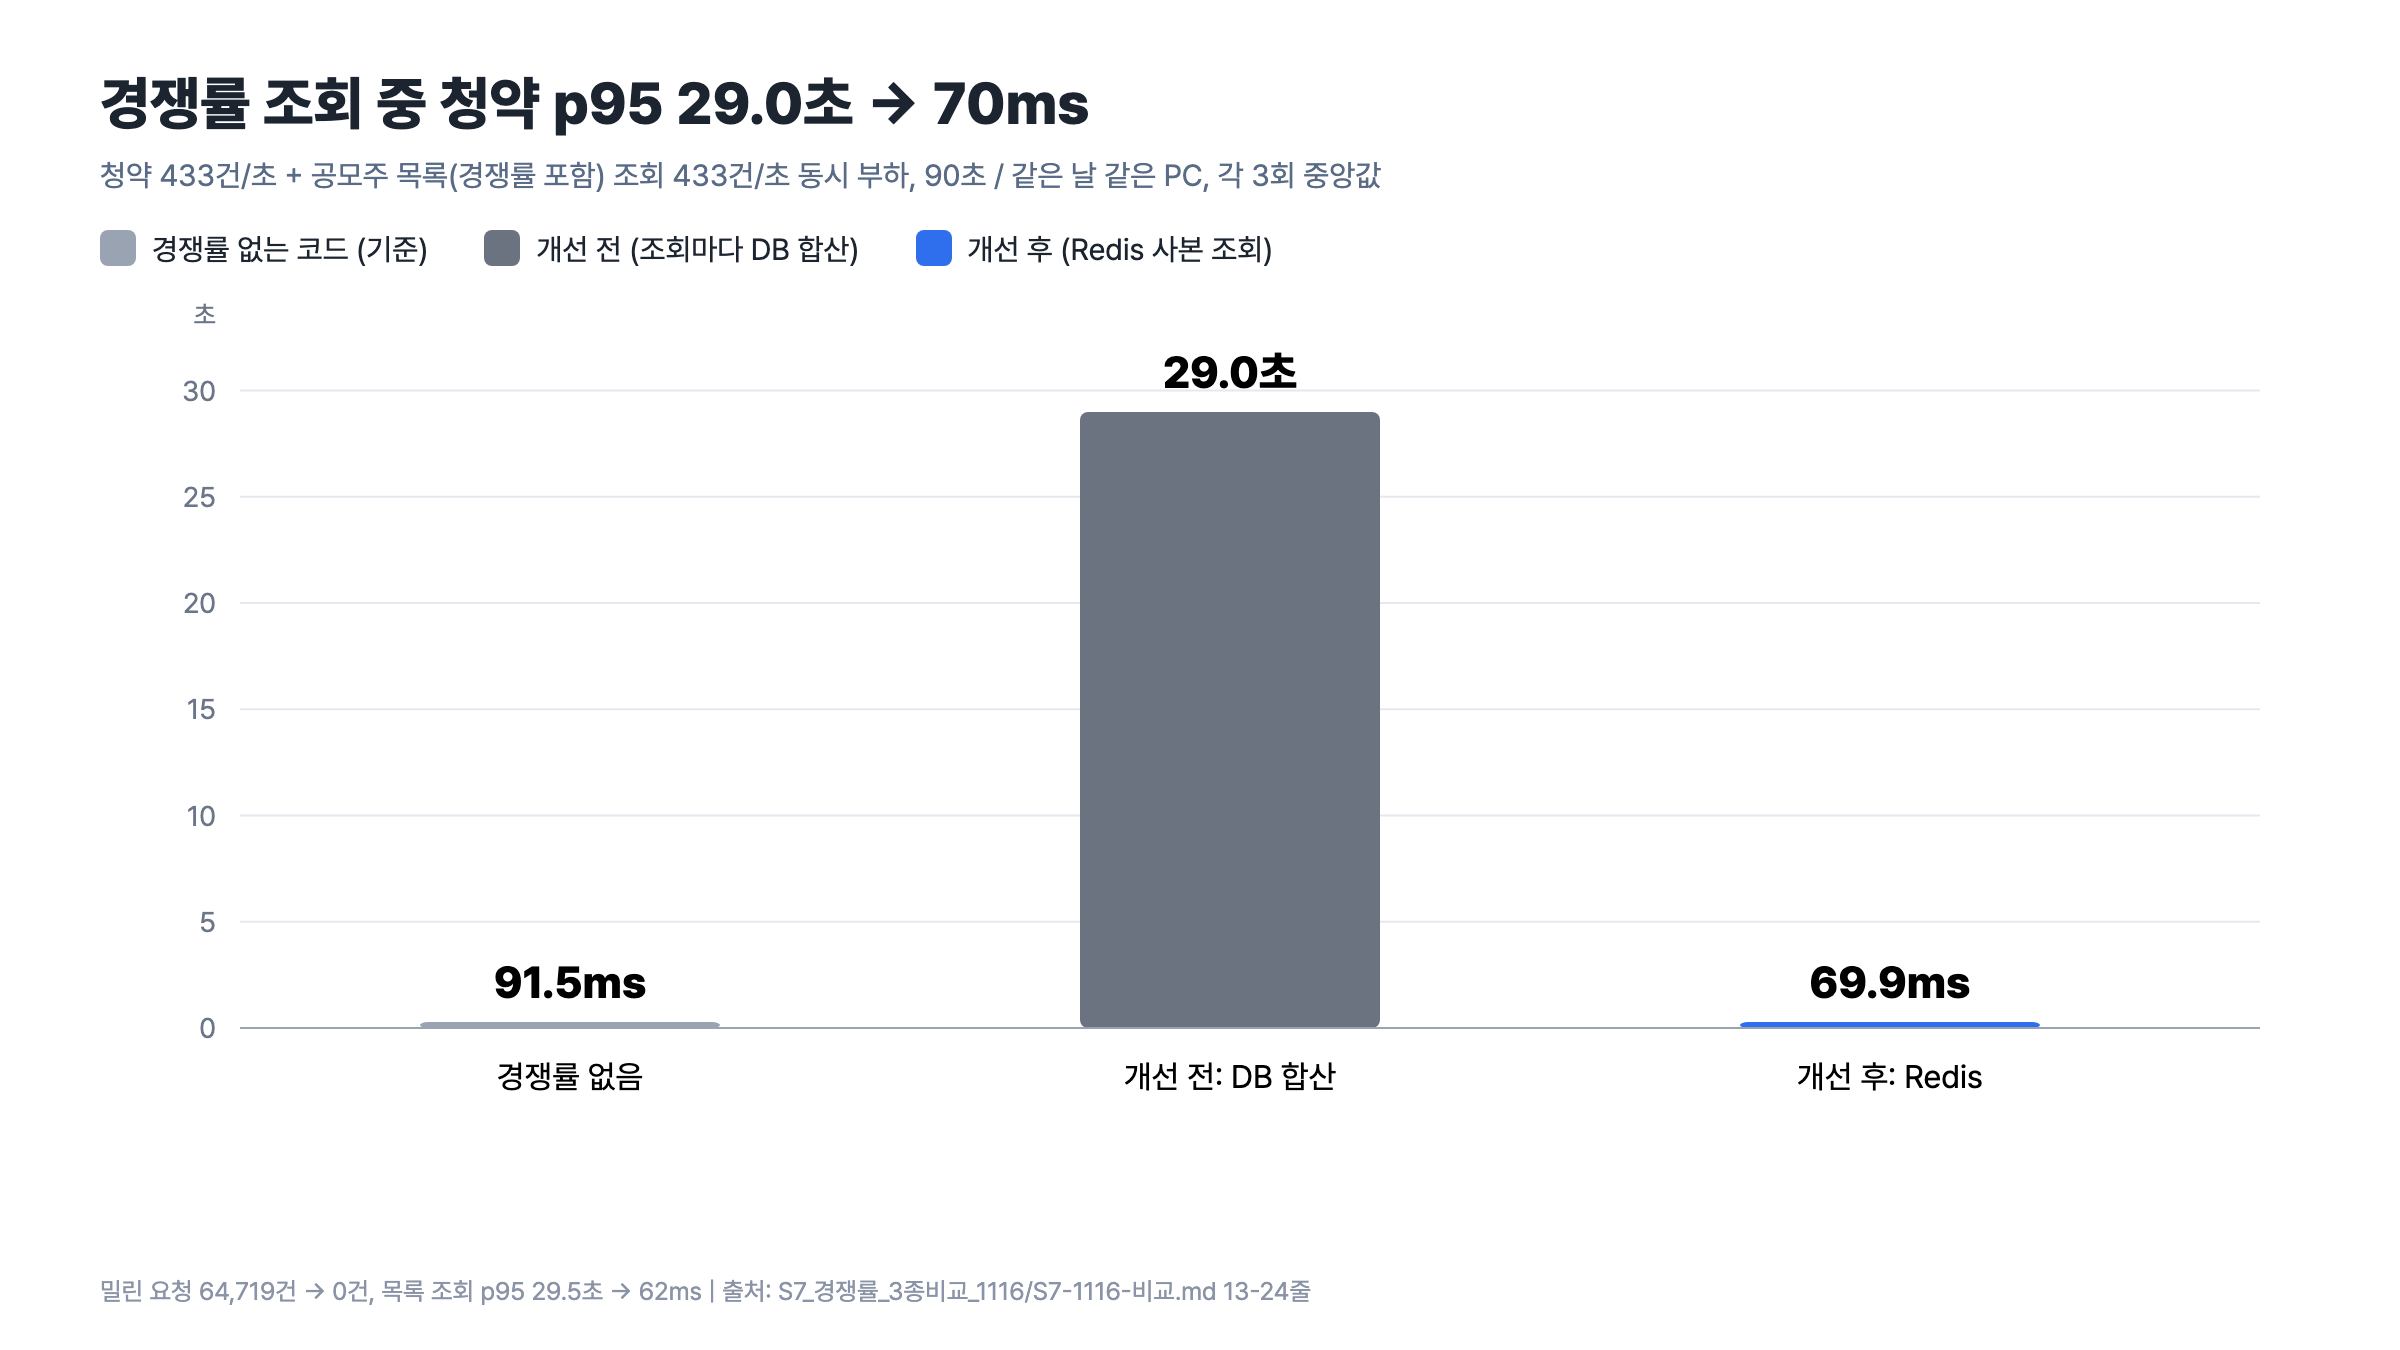
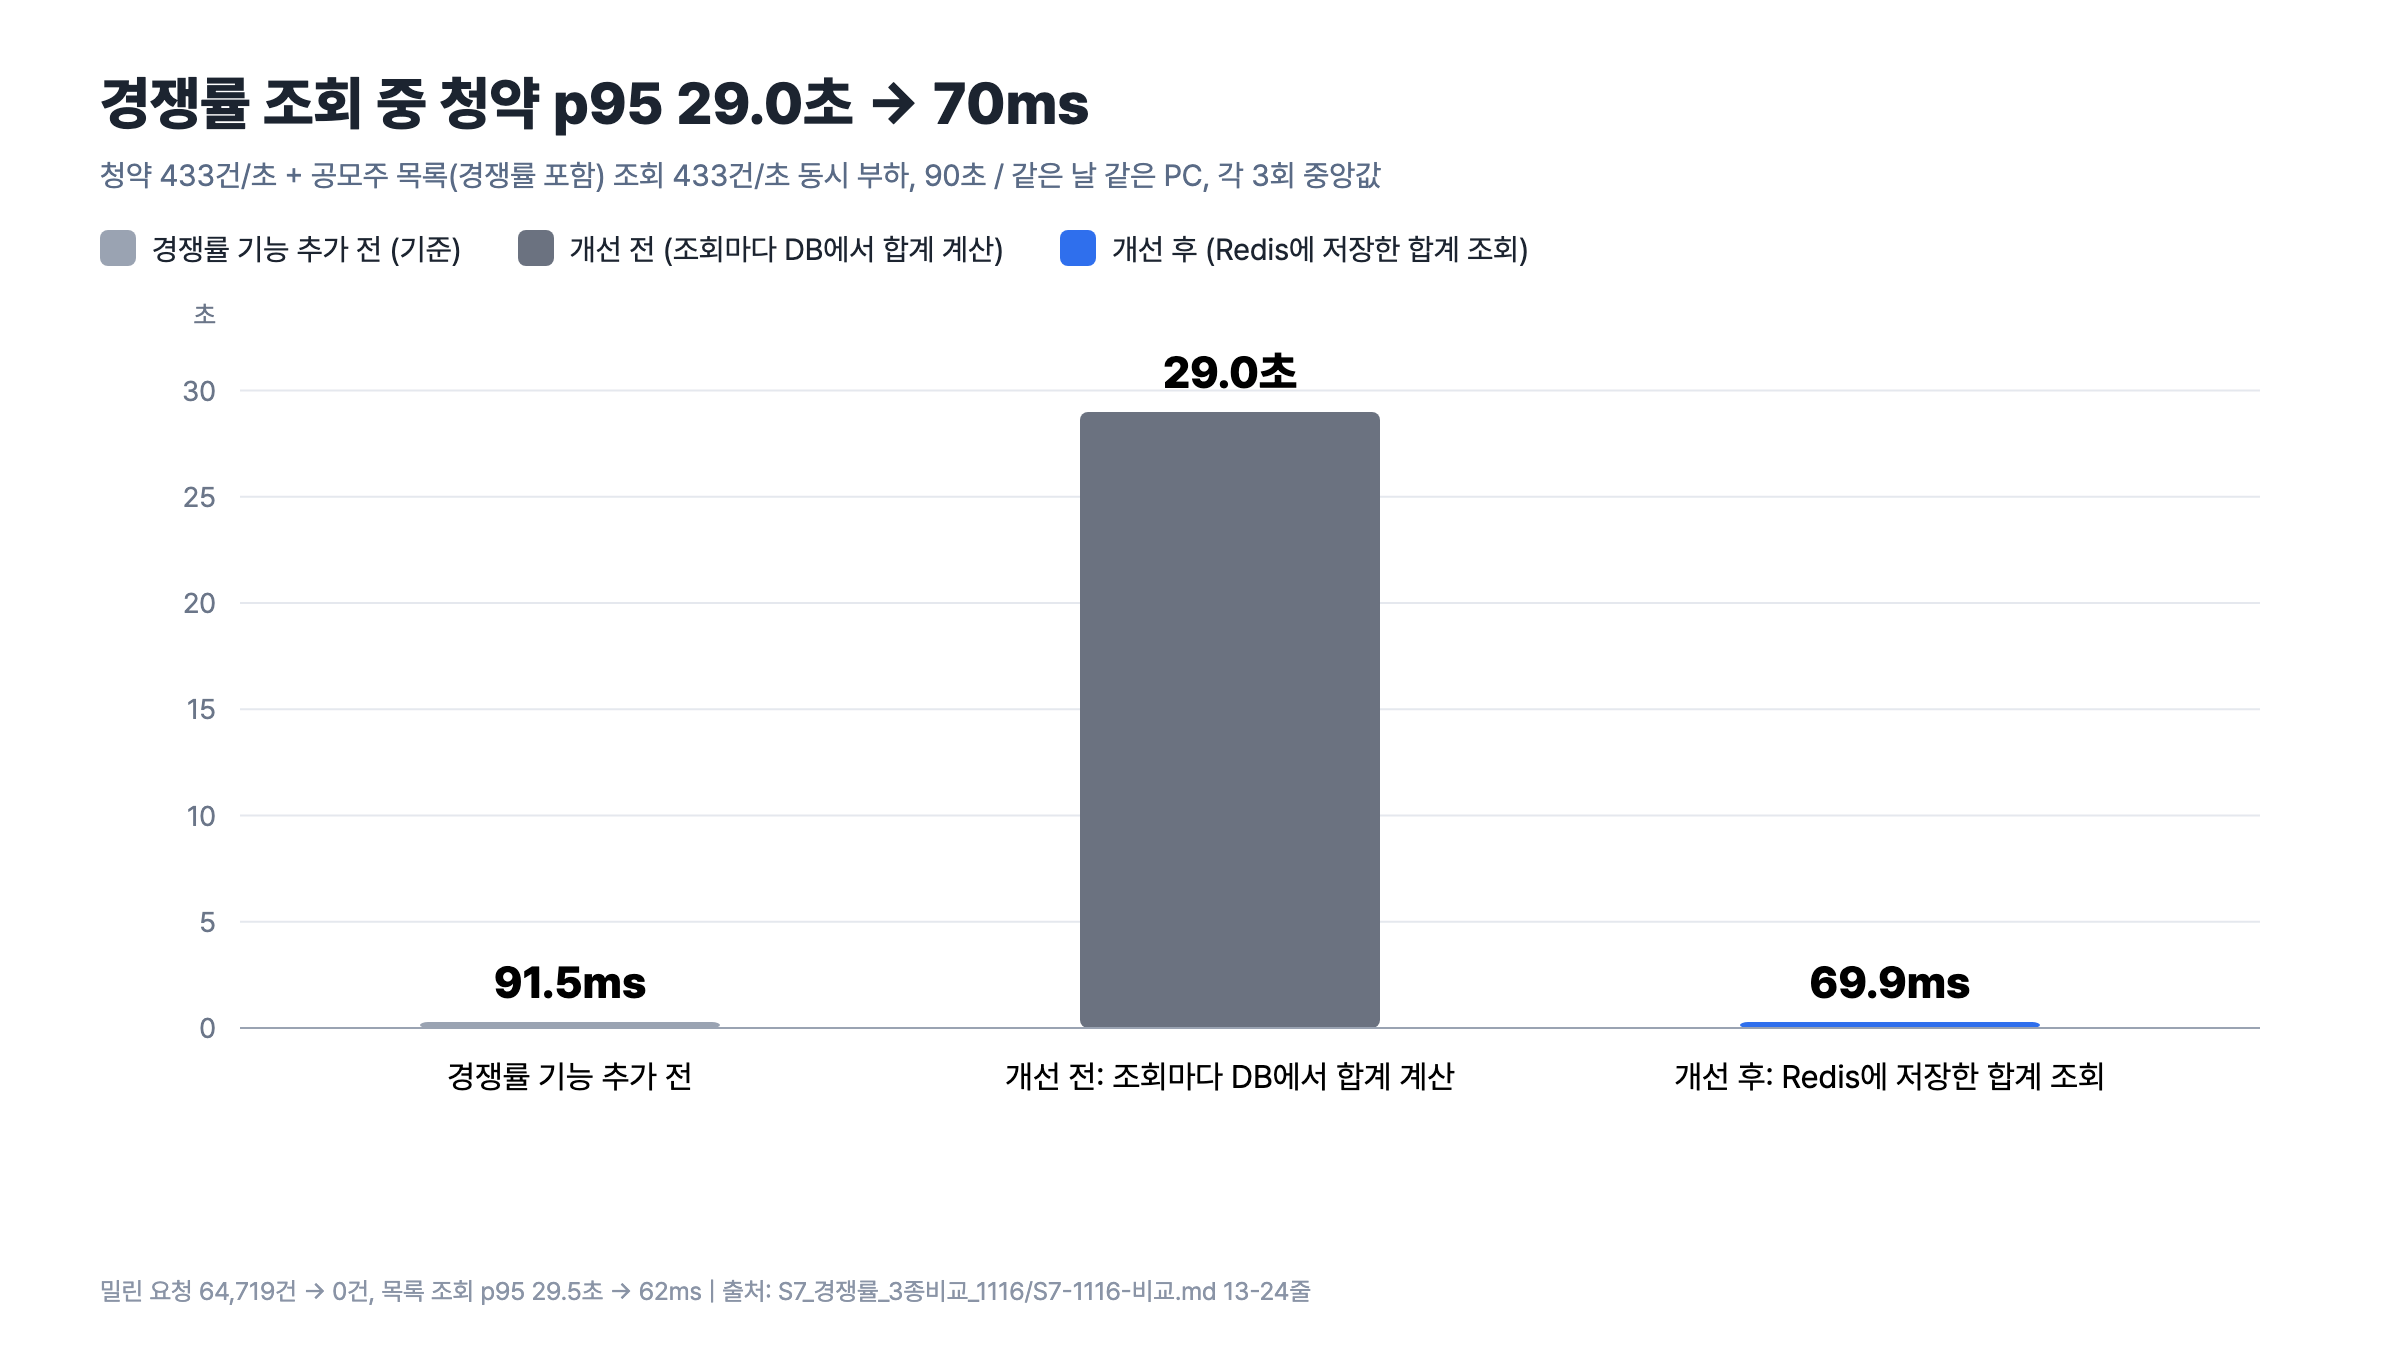
[docs] README 실행 명령을 한 줄씩 나누고 Windows 실행 환경 추가 #193
- PowerShell에서도 실행되도록 && 연결 제거
- 경쟁률 비교 그래프 라벨 수정

diff --git a/README.md b/README.md
@@ -309,12 +309,16 @@ flowchart LR
 
 ## Getting Started
 
-필요: JDK 21, Docker (메모리 6GB 이상 권장), Node.js
+필요: JDK 21, Docker (메모리 6GB 이상 권장), Node.js  
+Windows는 Docker Desktop과 Git Bash에서 아래 명령을 그대로 실행합니다.
 
 ```bash
 cp .env.example .env          # DB 비밀번호 4개, JWT_SECRET, GRAFANA_ADMIN_PASSWORD 입력
-./gradlew build -x test && docker-compose up -d --build
-cd frontend && npm install && npm run dev   # http://localhost:5173
+./gradlew build -x test
+docker-compose up -d --build
+cd frontend
+npm install
+npm run dev                   # http://localhost:5173
 ```
 
 - 통합 Swagger: `localhost:8080/swagger-ui/index.html`
